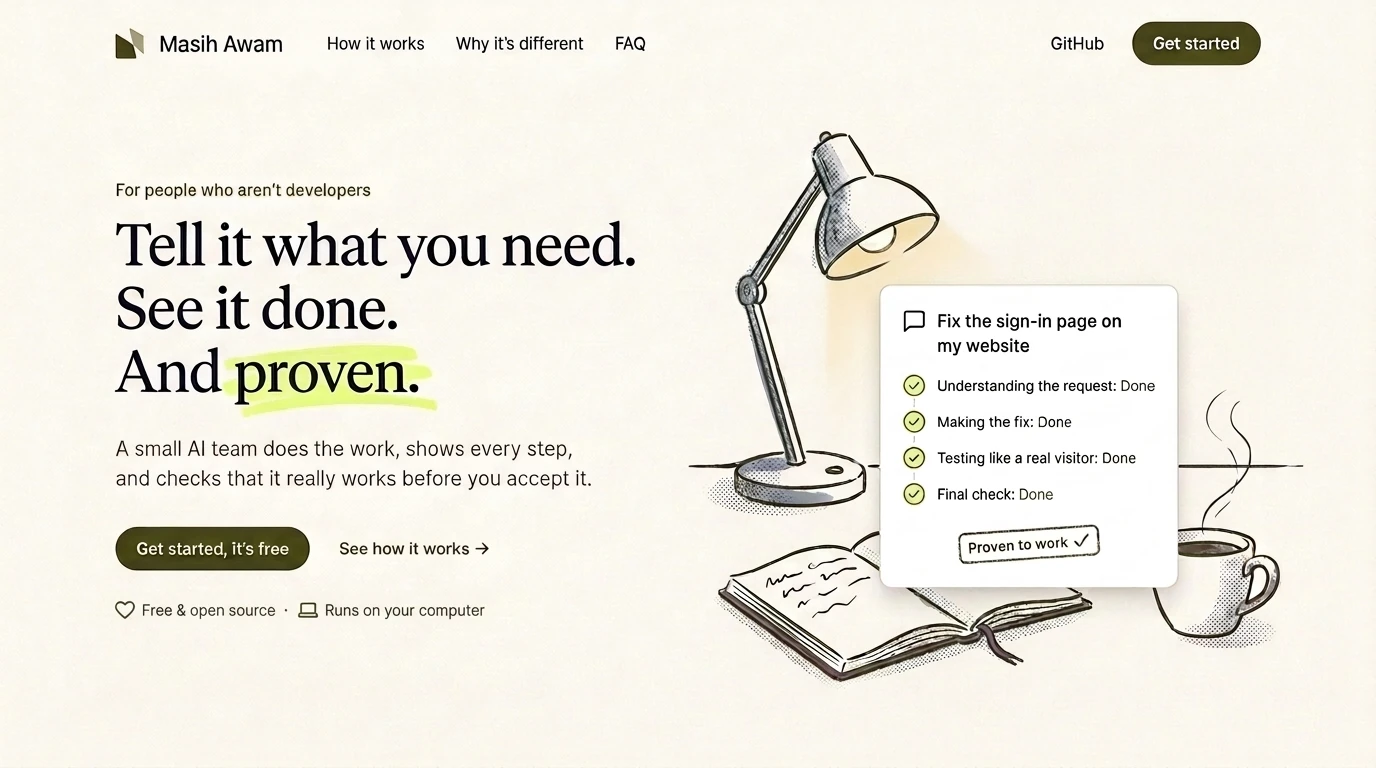
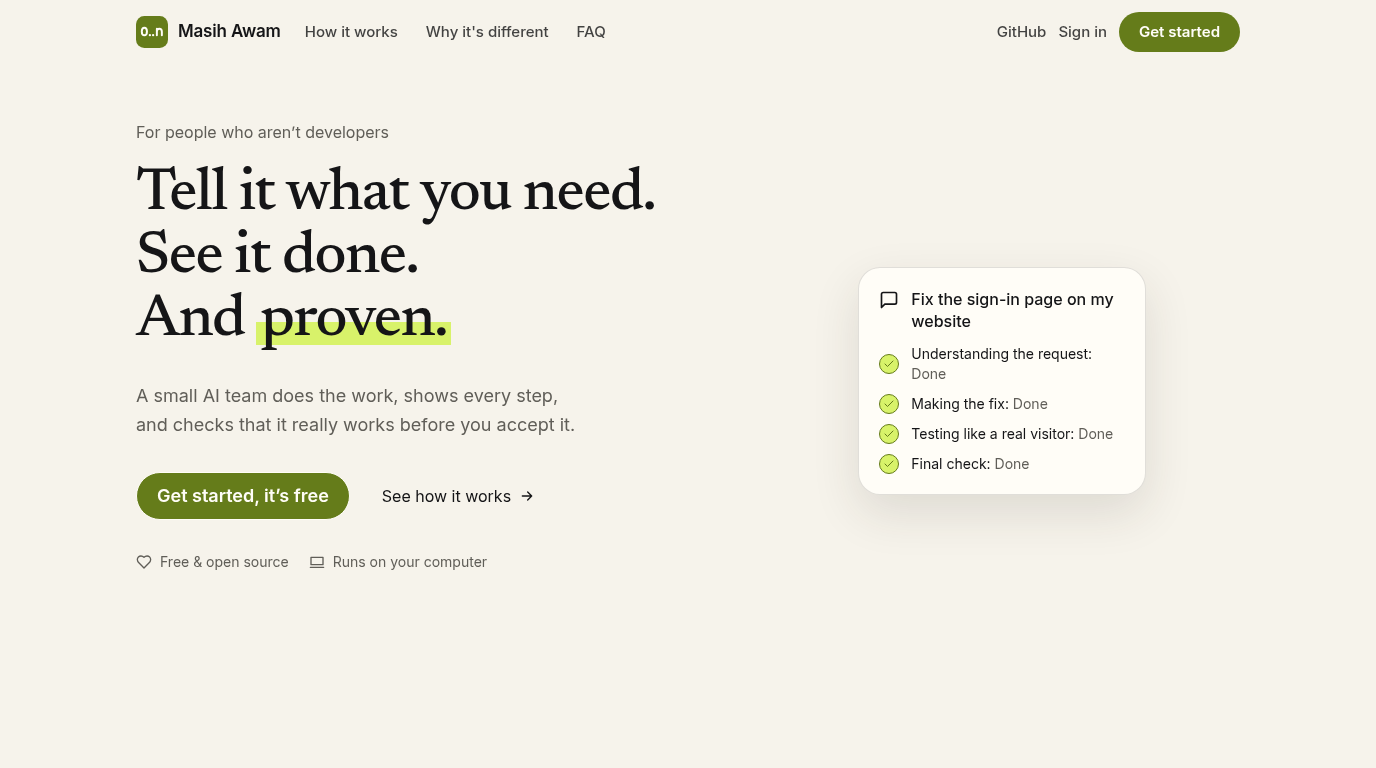
feat: use a real landing-page screenshot as the AI workspace cover and add the GPA to the CV

diff --git a/frontend/src/lib/cv.ts b/frontend/src/lib/cv.ts
@@ -12,6 +12,7 @@ interface CvDraft {
   employmentSummary?: string;
   professionalExperienceOrders?: number[];
   experienceBullets?: Record<string, string[]>;
+  educationNote?: string;
 }
 
 function contactLine() {
@@ -110,8 +111,9 @@ export function buildCvRenderRequest(draft: CvDraft, target: CvTarget) {
     })
     .filter((item): item is NonNullable<typeof item> => Boolean(item));
 
+  const degreeNote = draft.educationNote ? ` | ${draft.educationNote}` : '';
   const educationLines = education.filter((item) => !education.some((entry) => /bachelor|master|doctor/i.test(entry.program)) || /bachelor|master|doctor/i.test(item.program)).map((item) =>
-    [item.institution, item.program, item.year].filter(Boolean).join(' | ')
+    [item.institution, item.program, item.year].filter(Boolean).join(' | ') + (/bachelor|master|doctor/i.test(item.program) ? degreeNote : '')
   );
 
 
